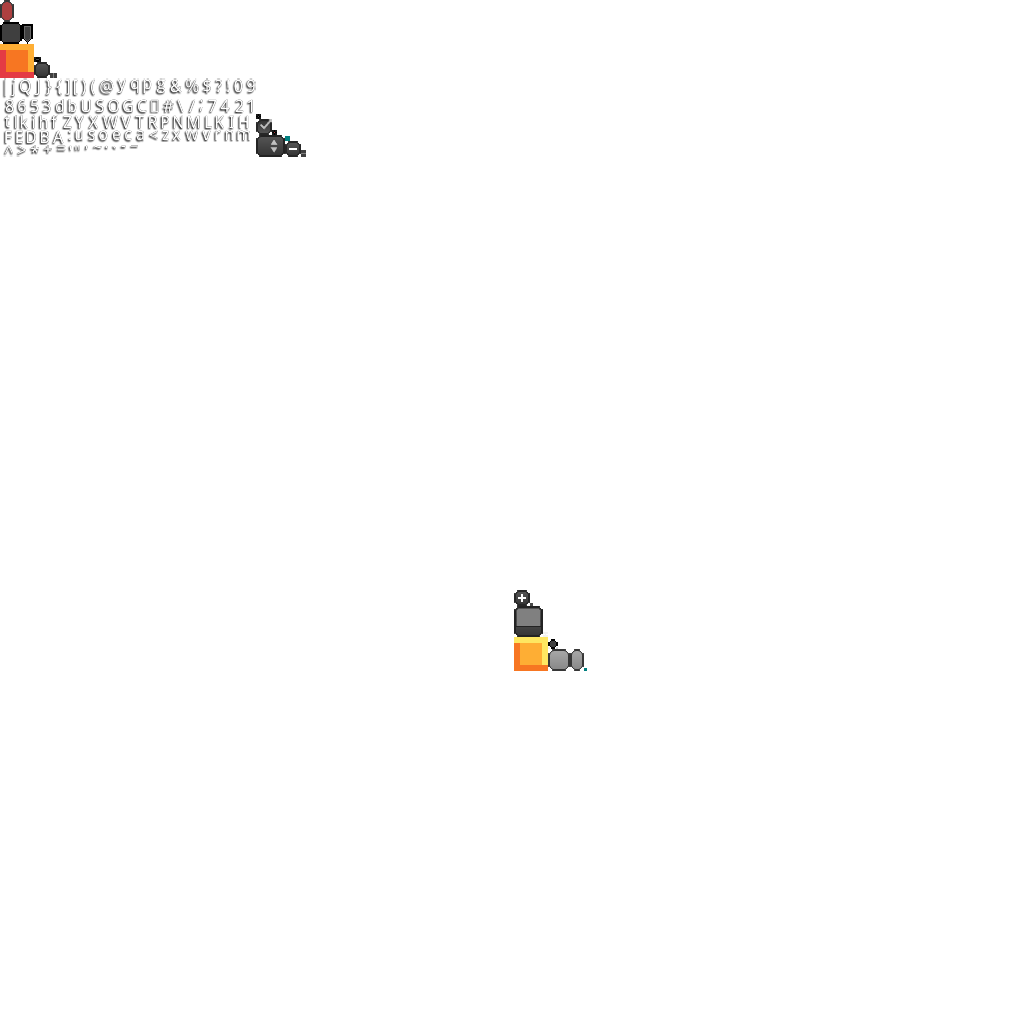
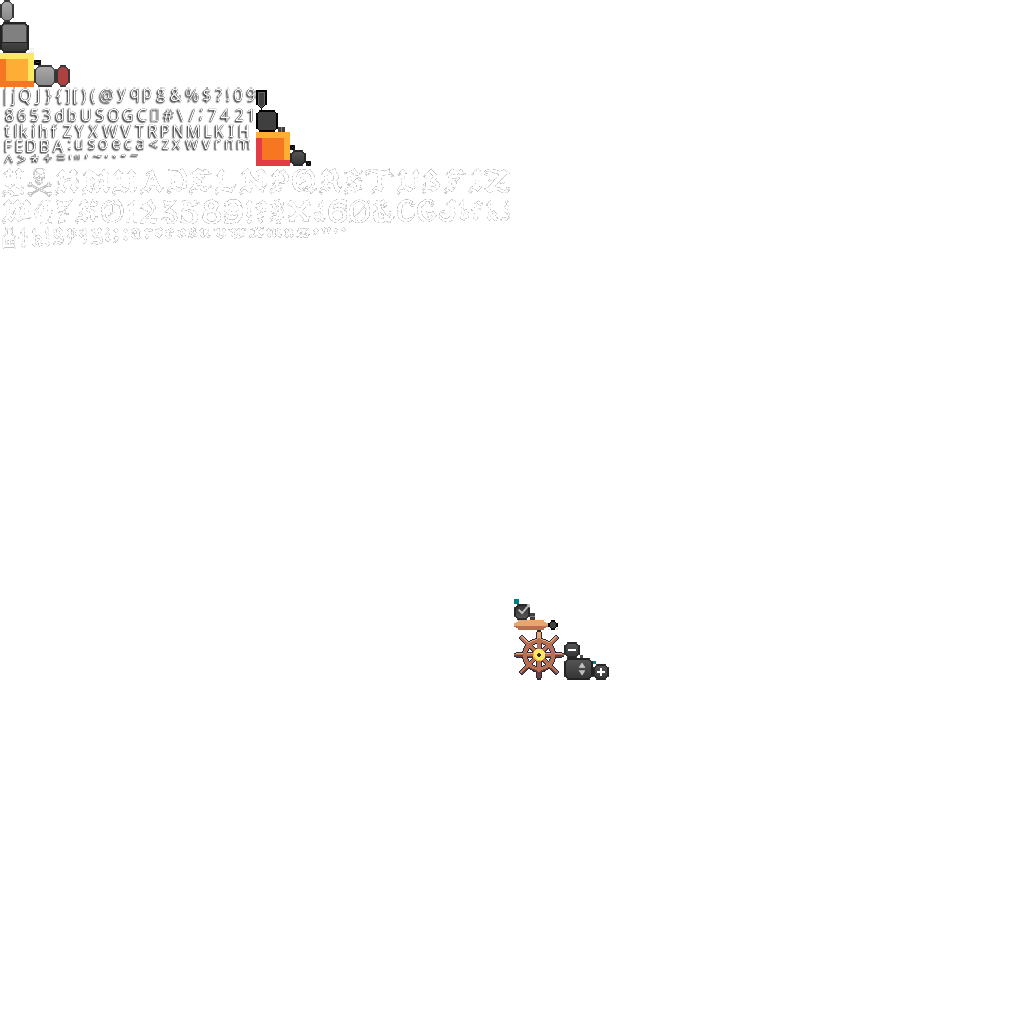
added anchor and steering UI

Changed region(s): [[0.0, 0.0, 0.4375, 0.2188], [0.5, 0.5625, 0.5938, 0.6875]]

diff --git a/core/src/org/loomy/BoatScreen.java b/core/src/org/loomy/BoatScreen.java
@@ -15,6 +15,8 @@ import com.badlogic.gdx.graphics.glutils.ShapeRenderer;
 import com.badlogic.gdx.math.MathUtils;
 import com.badlogic.gdx.math.Vector3;
 import com.badlogic.gdx.scenes.scene2d.InputEvent;
+import com.badlogic.gdx.scenes.scene2d.ui.Label;
+import com.badlogic.gdx.scenes.scene2d.ui.Slider;
 import com.badlogic.gdx.scenes.scene2d.ui.TextButton;
 import com.badlogic.gdx.scenes.scene2d.utils.ClickListener;
 import com.badlogic.gdx.utils.GdxRuntimeException;
@@ -39,10 +41,17 @@ public class BoatScreen extends StageScreen
     private Batch batch;
     private OrthographicCamera worldCamera;
     private ShapeRenderer shapeRenderer;
+
     private TextButton txtToggleSpyglass;
+    private Slider sldSteering;
+    private Label lblPort;
+    private Label lblStarboard;
+
+    private final float BOAT_SPEED = 30.0f;
 
     public static List<Cannonball> cannonballs; //game jam !! hehe
     public static Crewman crewmanOnMast = null;
+    public static Crewman crewmanOnWheel = null;
     public static boolean spyglassMode = false;
 
     public static final float CANNONBALL_SIZE = 32;
@@ -51,6 +60,7 @@ public class BoatScreen extends StageScreen
     public static float shakeLeft = 0;
     private float defaultCamX = 0;
     private float defaultCamY = 0;
+    private float boatX;
 
     private ShaderProgram waterShader;
     private ShaderProgram fogShader;
@@ -101,9 +111,7 @@ public class BoatScreen extends StageScreen
     @Override
     public void render(float delta)
     {
-
         deltaSinceStart += delta;
-
 
         if(deathFade <= 0)
         {
@@ -360,6 +368,11 @@ public class BoatScreen extends StageScreen
             batch.draw(txtDeath, 0, 0);
             batch.end();
         }
+
+        lblStarboard.setVisible(crewmanOnWheel != null);
+        lblPort.setVisible(crewmanOnWheel != null);
+        sldSteering.setVisible(crewmanOnWheel != null);
+
         super.render(delta);
     }
 
@@ -444,6 +457,7 @@ public class BoatScreen extends StageScreen
     public void init()
     {
         crewmanOnMast = null;
+        crewmanOnWheel = null;
         this.assetManager = gameManager.assetManager;
         this.worldCamera = new OrthographicCamera(WIDTH, HEIGHT);
         this.cannonballs = new ArrayList<>();
@@ -497,19 +511,36 @@ public class BoatScreen extends StageScreen
         cannonShot_right.setPosition(200, -100);
 
         this.pirateSpeak = new Sound[]{
-                assetManager.get("sounds/ahoy.wav", Sound.class),
-                assetManager.get("sounds/arghh.wav", Sound.class),
-                assetManager.get("sounds/ay.wav", Sound.class),
-                assetManager.get("sounds/booty.wav", Sound.class),
-                assetManager.get("sounds/oi.wav", Sound.class),
-                assetManager.get("sounds/rum.wav", Sound.class),
-                assetManager.get("sounds/shark_bait.wav", Sound.class),
-                assetManager.get("sounds/ye.wav", Sound.class)
+            assetManager.get("sounds/ahoy.wav", Sound.class),
+            assetManager.get("sounds/arghh.wav", Sound.class),
+            assetManager.get("sounds/ay.wav", Sound.class),
+            assetManager.get("sounds/booty.wav", Sound.class),
+            assetManager.get("sounds/oi.wav", Sound.class),
+            assetManager.get("sounds/rum.wav", Sound.class),
+            assetManager.get("sounds/shark_bait.wav", Sound.class),
+            assetManager.get("sounds/ye.wav", Sound.class)
         };
 
         deathFade = DEATH_FADE;
         totalCreatures = 0;
         deltaSinceStart = 0;
         death = false;
+        boatX = 0;
+        this.sldSteering = new Slider(0, 2, 1f, false, getDefaultSkin());
+        this.sldSteering.setValue(1f);
+        this.sldSteering.setWidth(220);
+        this.sldSteering.setX(50);
+        this.sldSteering.setY(50);
+        getStage().addActor(sldSteering);
+
+        this.lblPort = new Label("Port", getDefaultSkin());
+        this.lblPort.setX(sldSteering.getX() - 20);
+        this.lblPort.setY(sldSteering.getY() + 35);
+        getStage().addActor(lblPort);
+
+        this.lblStarboard = new Label("Starboard", getDefaultSkin());
+        this.lblStarboard.setX(sldSteering.getX() + sldSteering.getWidth() - 50);
+        this.lblStarboard.setY(sldSteering.getY() + 35);
+        getStage().addActor(lblStarboard);
     }
 }

diff --git a/core/src/org/loomy/job/JobManager.java b/core/src/org/loomy/job/JobManager.java
@@ -9,6 +9,7 @@ import java.util.ArrayList;
 import java.util.List;
 
 import static org.loomy.BoatScreen.crewmanOnMast;
+import static org.loomy.BoatScreen.crewmanOnWheel;
 
 public class JobManager {
     private List<Crewman> crewmen;
@@ -23,10 +24,11 @@ public class JobManager {
         this.jobLocations = new ArrayList<>();
 
         jobLocations.add(new JobLocation(0, 0, new ClimbMastJob()));
-        jobLocations.add(new JobLocation(0, -100, new Job[]{new TakeRammerJob(), new DepositRammerJob()}));
+        jobLocations.add(new JobLocation(0, -150, new Job[]{new TakeRammerJob(), new DepositRammerJob()}));
         jobLocations.add(new JobLocation(110, -100, new Job[]{new CannonFillJob(), new CannonRamJob(), new CannonFireJob()}));
         jobLocations.add(new JobLocation(-110, -100, new Job[]{new CannonFillJob(), new CannonRamJob(), new CannonFireJob()}));
-        jobLocations.add(new JobLocation(-110, -160, new CannonAmmoJob()));
+        jobLocations.add(new JobLocation(-110, 70, new CannonAmmoJob()));
+        jobLocations.add(new JobLocation(110, 70, new CannonAmmoJob()));
         jobLocations.add(new JobLocation(0, -275, new SteerShipJob()));
 
         crewmen.add(new Crewman(0, -300));
@@ -127,6 +129,9 @@ public class JobManager {
                             {
                                 crewmanOnMast = null;
                                 BoatScreen.spyglassMode = false;
+                            }else if(selectedCrewman == crewmanOnWheel)
+                            {
+                                crewmanOnWheel = null;
                             }
 
                             assignJob(selectedCrewman, jl);

diff --git a/desktop/src/org/loomy/desktop/DesktopLauncher.java b/desktop/src/org/loomy/desktop/DesktopLauncher.java
@@ -1,5 +1,6 @@
 package org.loomy.desktop;
 
+import com.badlogic.gdx.Files;
 import com.badlogic.gdx.backends.lwjgl.LwjglApplication;
 import com.badlogic.gdx.backends.lwjgl.LwjglApplicationConfiguration;
 import org.loomy.SteemitJam;
@@ -11,6 +12,9 @@ public class DesktopLauncher {
 		config.height = 700;
 		config.resizable = false;
 		config.title = "Sailing on the Seven Seas";
+		config.addIcon("icon/icon_128.png", Files.FileType.Internal);
+		config.addIcon("icon/icon_32.png", Files.FileType.Internal);
+		config.addIcon("icon/icon_16.png", Files.FileType.Internal);
 		new LwjglApplication(new SteemitJam(), config);
 	}
 }

diff --git a/core/src/org/loomy/job/JobLocation.java b/core/src/org/loomy/job/JobLocation.java
@@ -51,6 +51,9 @@ public class JobLocation
             }else if(getJob() instanceof ClimbMastJob)
             {
                 BoatScreen.crewmanOnMast = crewman;
+            }else if(getJob() instanceof SteerShipJob)
+            {
+                BoatScreen.crewmanOnWheel = crewman;
             }
         });
     }
